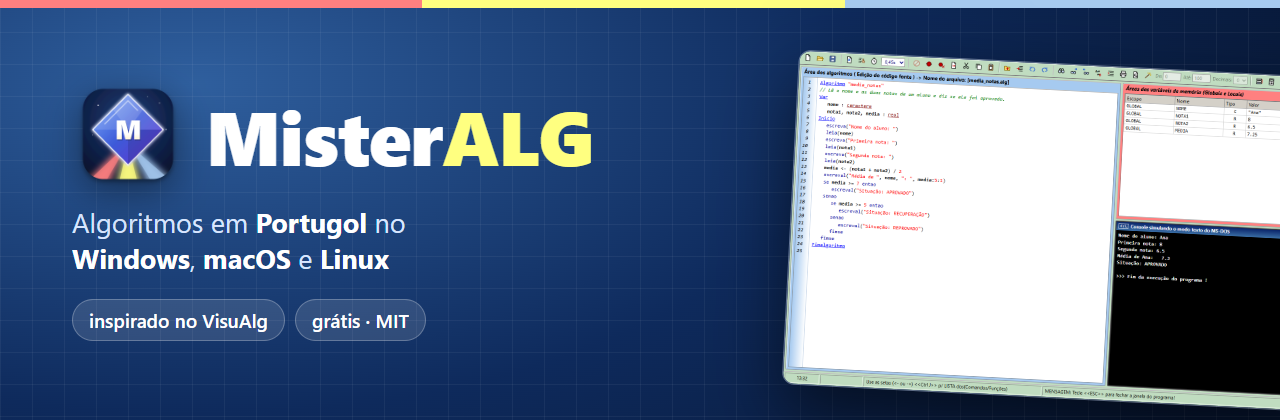
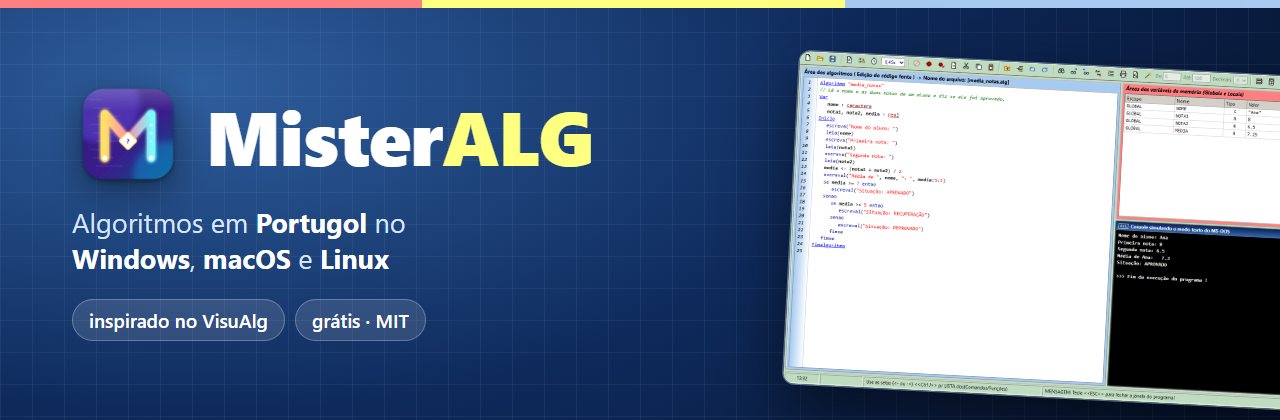
Ícone oficial: Fluxo Vivo (v1.4.2)
Escolhido como ícone de referência do MisterALG: um M desenhado como fluxograma neon, com o losango de decisão no meio e o rastro da execução. Banner e prévia social regenerados.

Changed region(s): [[0.0625, 0.1857, 0.1562, 0.4333]]

diff --git a/app/src/renderer/main.js b/app/src/renderer/main.js
@@ -10,7 +10,7 @@ import { ICONES } from './icones.js'
 
 const api = window.misteralg
 const $ = (sel) => document.querySelector(sel)
-const VERSAO = '1.4.1'
+const VERSAO = '1.4.2'
 // Termos de uso: o mesmo texto que o instalador do Windows exibe (app/build/termos.txt).
 import TEXTO_TERMOS from '../../build/termos.txt?raw'
 const TERMOS = TEXTO_TERMOS.replace(/^ï»¿/, '').replace(/\r\n/g, '\n')
